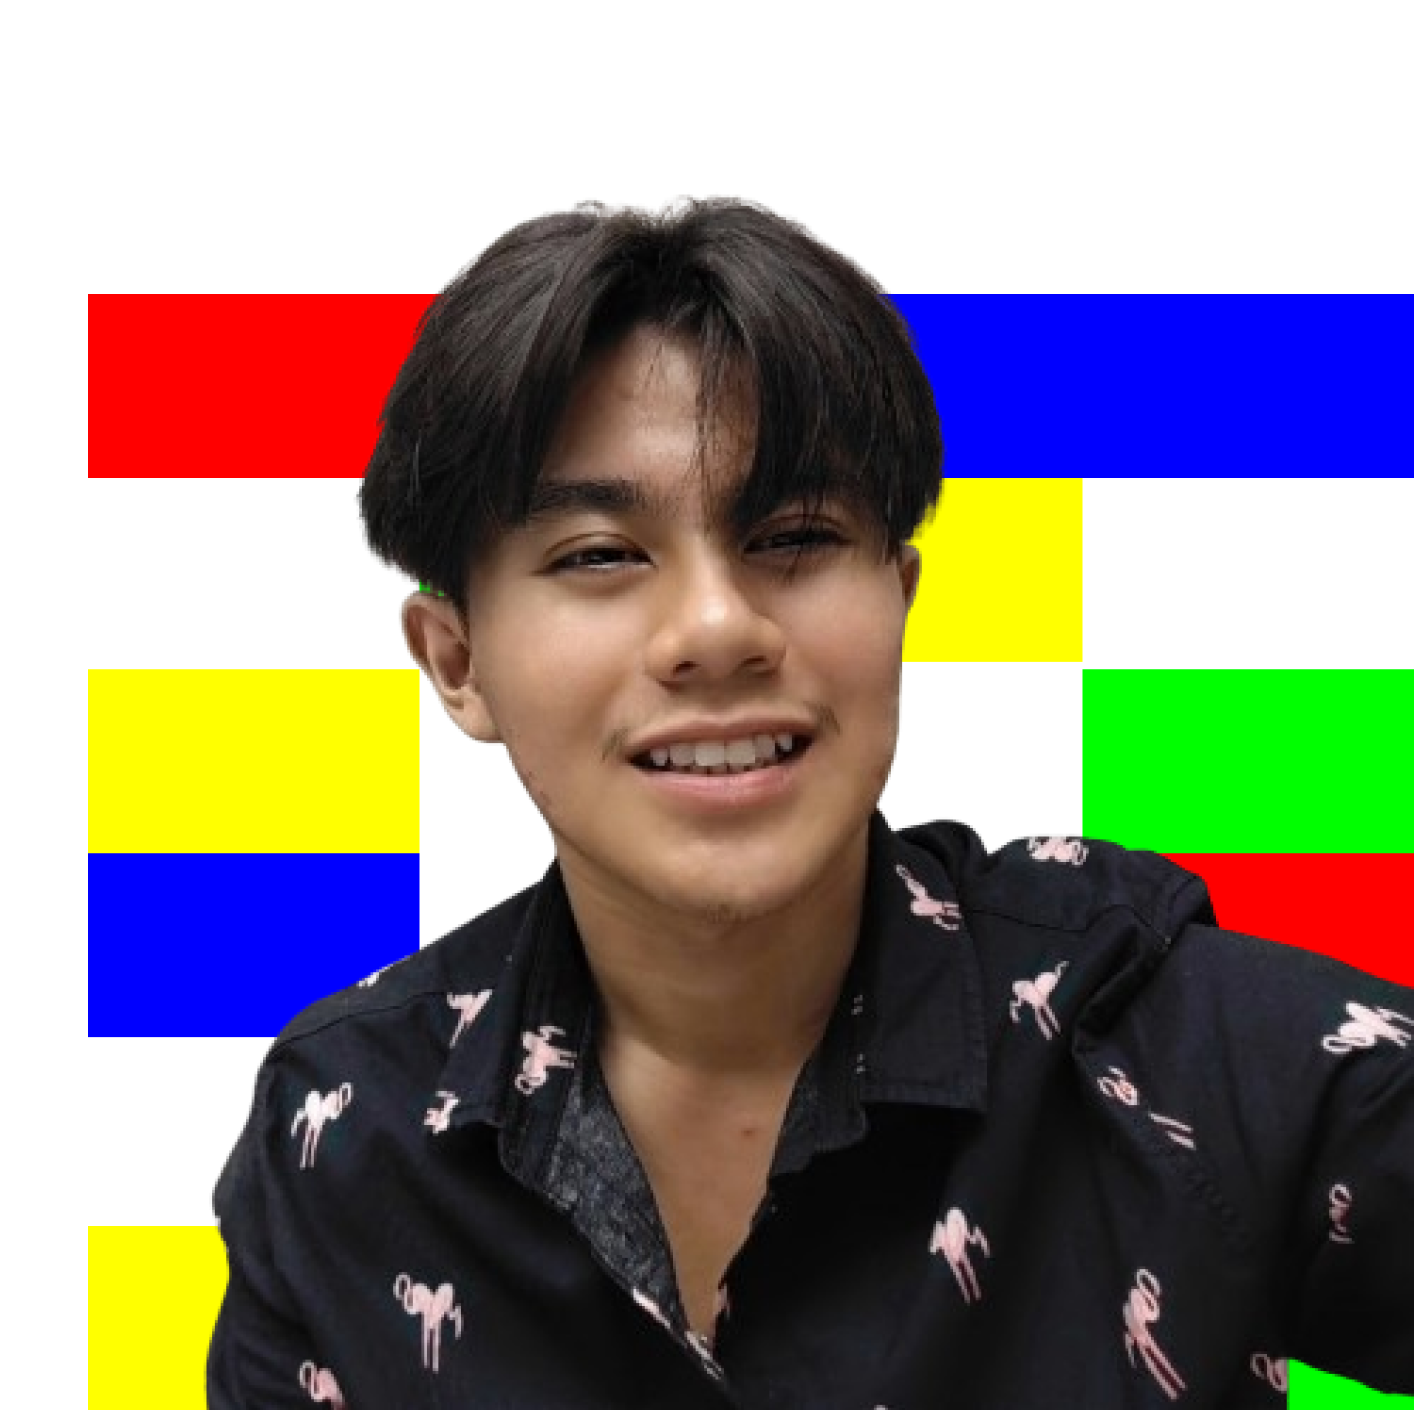
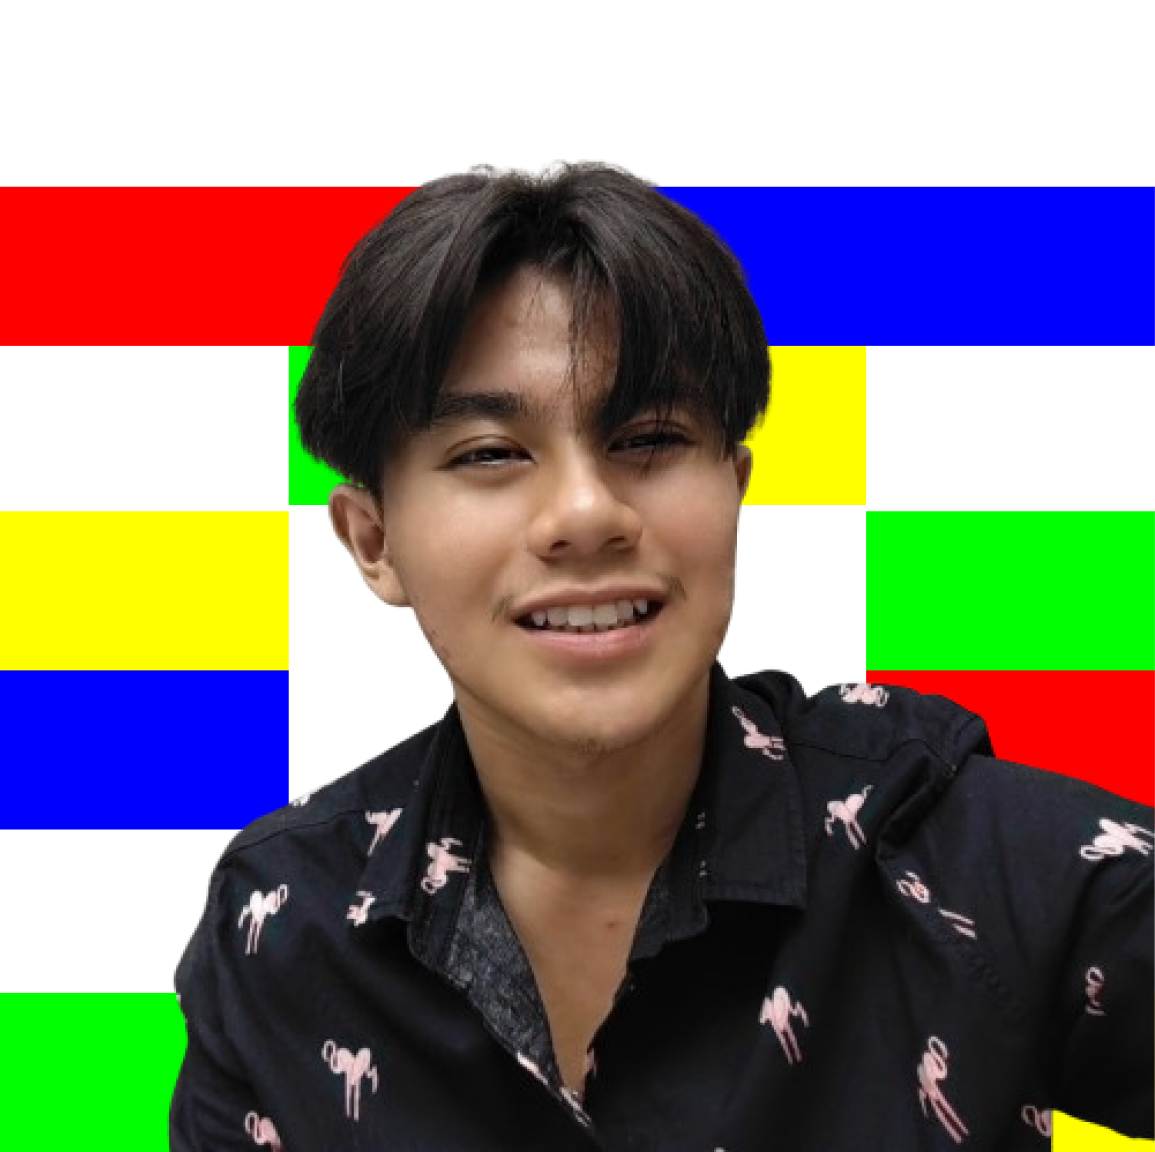
new commit

diff --git a/index.html b/index.html
@@ -9,30 +9,40 @@
     <link rel="icon" href="images/csslogo.svg" />
   </head>
   <body marginwidth="0" marginheight="0">
+    <!--Navigation Bar-->
     <table cellspacing="0px" bgcolor="#33AADD" width="100%">
       <tr>
         <th align="left" width="50%">
           <img src="images/csslogo.svg" width="100px" />
         </th>
         <th align="center" width="10%">
-          <font face="Fira Sans, sans-serif" color="white" size="6">Me</font>
+          <a href="#Me" style="text-decoration: none">
+            <font face="Fira Sans, sans-serif" color="white" size="6">
+              Me
+            </font>
+          </a>
         </th>
         <th align="center" width="20%">
-          <font face="Fira Sans, sans-serif" color="white" size="6">
-            About CSS
-          </font>
+          <a href="#AboutCSS"style="text-decoration: none"  alink="black" >
+            <font  face="Fira Sans, sans-serif" color="white" size="6">
+              About Me
+            </font>
+          </a>
         </th>
         <th align="center" width="20%">
-          <font face="Fira Sans, sans-serif" color="white" size="6">
-            Lessons
-          </font>
+          <a href="#Lessons"style="text-decoration: none"  alink="black" >
+            <font  face="Fira Sans, sans-serif" color="white" size="6">
+              Lessons
+            </font>
+          </a>
         </th>
       </tr>
     </table>
 
-    <table cellpadding="15px">
+    <!--Me Section-->
+    <table width="100%" cellpadding="15px" id="Me"  cellspacing="0">
       <tr>
-        <th bgcolor="white" align="left" width="50%">
+        <td bgcolor="D0DEEF" align="left" width="50%">
           <font face="montserrat,sans-serif" size="6">
             <h1>
               Hi, I'm Jotham Den <br />
@@ -49,11 +59,68 @@
               <font face="montserrat,sans-serif" color="#1172B8">CSS</font>!"
             </h2>
           </font>
-        </th>
-        <th bgcolor="white" align="center" colspan="3">
-          <img src="images/me.png" width="80%" alt="" />
-        </th>
+        </td>
+        <td bgcolor="D0DEEF" align="center" colspan="3" height="600px" >
+          <img src="images/me.png" width="75%" alt="" />
+        </td>
       </tr>
     </table>
+    <!--About CSS-->
+    <table cellspacing="0"  height="690px"  >
+       <tr>
+       <td colspan="2" width="50%" height="80px" colspan="4"></td>
+      </tr>
+      
+      <tr id="AboutCSS">
+        <td align="center" width="50%" bgcolor="262626" rowspan="2">
+          <img src="images/2.5Dcss.png" width="75%" alt="" />
+        </td>
+        <td bgcolor="#33AADD" align="center" width="50%" ">
+          <font color="white" face="Fira Sans,sans-serif" size="5"
+            ><h1>Cascading Style Sheets <br />(CSS)</h1></font
+          >
+          <font color="white" face="montserrat,sans-serif" size="2.5">
+            <h2>CSS is the language we use to style an HTML document.</h2>
+            <h2>It describes how HTML elements should be displayed.</h2>
+            <h2>This tutorial will teach you CSS basics. </h2>
+          </font>
+        </td>
+      </tr>
+    </table>
+
+
+
+    <table cellspacing="0" width="100%"  height="700px" >
+      <tr>
+       <td colspan="2" width="50%" height="80px" colspan="4"></td>
+      </tr>
+
+      <tr bgcolor="#33AADD" width="50%" id="Lessons" >
+       <td colspan="2" height="50px" align="center">
+        <font color="white" face="Fira Sans,sans-serif" size="5"
+            ><h1>CSS BASIC LESSONS</h1></font>
+       </td>
+      </tr>
+ 
+      <tr>
+       <td width="50%" bgcolor="D0DEEF" >
+        
+       </td>
+       <td align="center" bgcolor="262626" width="50%">
+        <img src="images/3DCOMPUTER.webp" width="70%">
+       </td>
+
+      </tr>
+       <tr bgcolor="#33AADD">
+       <td colspan="2" width="50%" height="50px" colspan="4"></td>
+      </tr>
+    </table>
+       
+     
+    <table cellspacing="0" width="100%"  height="200px">
+      <tr bgcolor="262626">
+       <td colspan="2" width="50%" height="100px" colspan="4"></td>
+      </tr>
+      
   </body>
 </html>
